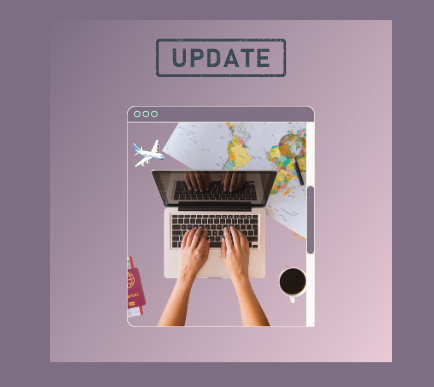
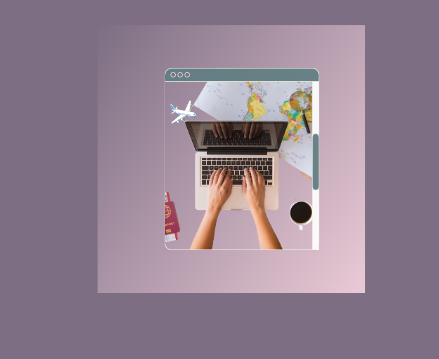
allgood

diff --git a/public/stylesheets/style.css b/public/stylesheets/style.css
@@ -56,7 +56,7 @@ body {
   border-radius: 32px;
   transition: all .3s ease-in-out;
   opacity: 0.4; /* Opacidade de 40% */
-margin-left: 2rem;
+  margin-left: 2rem;
 }
 
 .btn-aboutus:hover,
@@ -156,6 +156,8 @@ transition: all .3s ease-in-out;
     outline: none;
     text-decoration: none;
     text-align: center;
+    justify-content: center;
+    align-items: center;
   }
   
   .button-home:hover {
@@ -370,8 +372,8 @@ nav .menu ul li a:hover {
 }
 
 main section.image img {
-  margin-top: 1rem;
-  width: 500px;
+  margin-top: 2rem;
+  width: 150px;
   transition: all .3s ease-in-out;
 }
 
@@ -431,7 +433,9 @@ main section.image img:hover {
     transition: all .3s ease-in-out;
     outline: none;
     text-decoration: none;
+    align-items: center;
     text-align: center;
+    justify-content: center;
     opacity: 0.4; /* Opacidade de 80% */
   }
   
@@ -457,6 +461,8 @@ main section.image img:hover {
   outline: none;
   text-decoration: none;
   text-align:center;
+  align-items: center;
+  justify-content: center;
   opacity: 0.4; /* Opacidade de 80% */
 }
 
@@ -508,45 +514,84 @@ main section.image img:hover {
   opacity: 1;
 } 
 
-  /* posts photos */
+  /* All posts photos */
+
+  :root {
+    --circle4-color: linear-gradient(to bottom, #554e58, #62306D);
+    --circle6-color: linear-gradient(to bottom, #554e58, #62306D);
+  }
+  
+  .circle-4 {
+    position: absolute;
+    top: -5rem;
+    left: 0;
+    width: 100%;
+    height: 100%;
+    background: var(--circle4-color);
+    clip-path: circle(100px at 100% 100px);
+    z-index: -1;
+  }
+  
+  .circle-6 {
+    position: absolute;
+    top: -15rem;
+    left: 0;
+    width: 100%;
+    height: 100%;
+    background: var(--circle6-color);
+    clip-path: circle(150px at 50px 200px);
+    z-index: -1;
+  }
+  
 
   .photo-album {
   display: grid;
   grid-template-columns: repeat(3, 1fr); /* Define 3 colunas com tamanho igual */
   grid-gap: 10px; /* Define o espaçamento entre as fotos */
+  margin-top: 4rem;
+
 }
 
 .photo-item {
   text-align: center;
   padding: 7rem 2rem 2rem 2rem;
+
 }
 
+.photo-item:nth-child(3n+1),
+.photo-item:nth-child(3n+2),
+.photo-item:nth-child(3n+3) {
+  box-shadow: 0 0 10px rgba(56, 5, 85, 0.2); /* Altere os valores RGB e o valor de transparência conforme necessário */
+  margin-bottom: 20px; /* Ajuste o valor conforme necessário */
+  margin-left: 20px;
+  border-color: #3D4A55;
+}
 
 .photo-item img {
   width: 350px; /* Define a largura da foto */
   height: 250px; /* Define a altura da foto */
-  object-fit: cover;
-
+  object-fit: cover
 }
+
 
 .photo-info {
   margin-top: 5px;
 }
 
 .photo-info h3 {
-  margin-top: 2px;
-  color: #7D6E83;
+  margin-top: 5px;
+  color: #3D4A55;
 }
 
 
 .photo-info h4 {
   margin-top: 5px;
-  color: #7D6E83;
+  color: #3D4A55;
 }
 
 .photo-info p {
   margin-top: 5px;
-  color: #7D6E83;
+  color: #3D4A55;
 }
 
   .button-container1 {
@@ -570,7 +615,7 @@ main section.image img:hover {
   }
 
 
-  .buttonDU  {
+  #buttonDU  {
     display: inline-block;
     padding: 10px 20px;
     background-color: #7D6E83;
@@ -581,12 +626,31 @@ main section.image img:hover {
     margin-right: 10px;
   }
   
-  #buttonDE, 
-  .buttonDU:hover {
-    cursor: pointer;
+ 
+  
+  .Admin {
+    position: fixed;
+    top: 0;
+    left: 67%;
+    display: flex;
+    align-items: center;
+    height: 3rem;
+    width: 8rem;
+    justify-content: center;
+    text-align: center;
+    background-color: #7D6E83;
+    color: white;
+    text-decoration: none;
+    border-radius: 32px;
+    transition: all .3s ease-in-out;
+    margin: 10px; /* Ajuste o valor conforme necessário para controlar o espaçamento */
+    opacity: 0.4; /* Opacidade de 80% */
   }
-  
-  
+
+  .Admin:hover {
+  background: #b9a0c4;
+  opacity: 2; /* Opacidade total ao passar o mouse */
+}
 
 
 @media only screen and (min-width: 900px) and (max-width: 1200px) {
